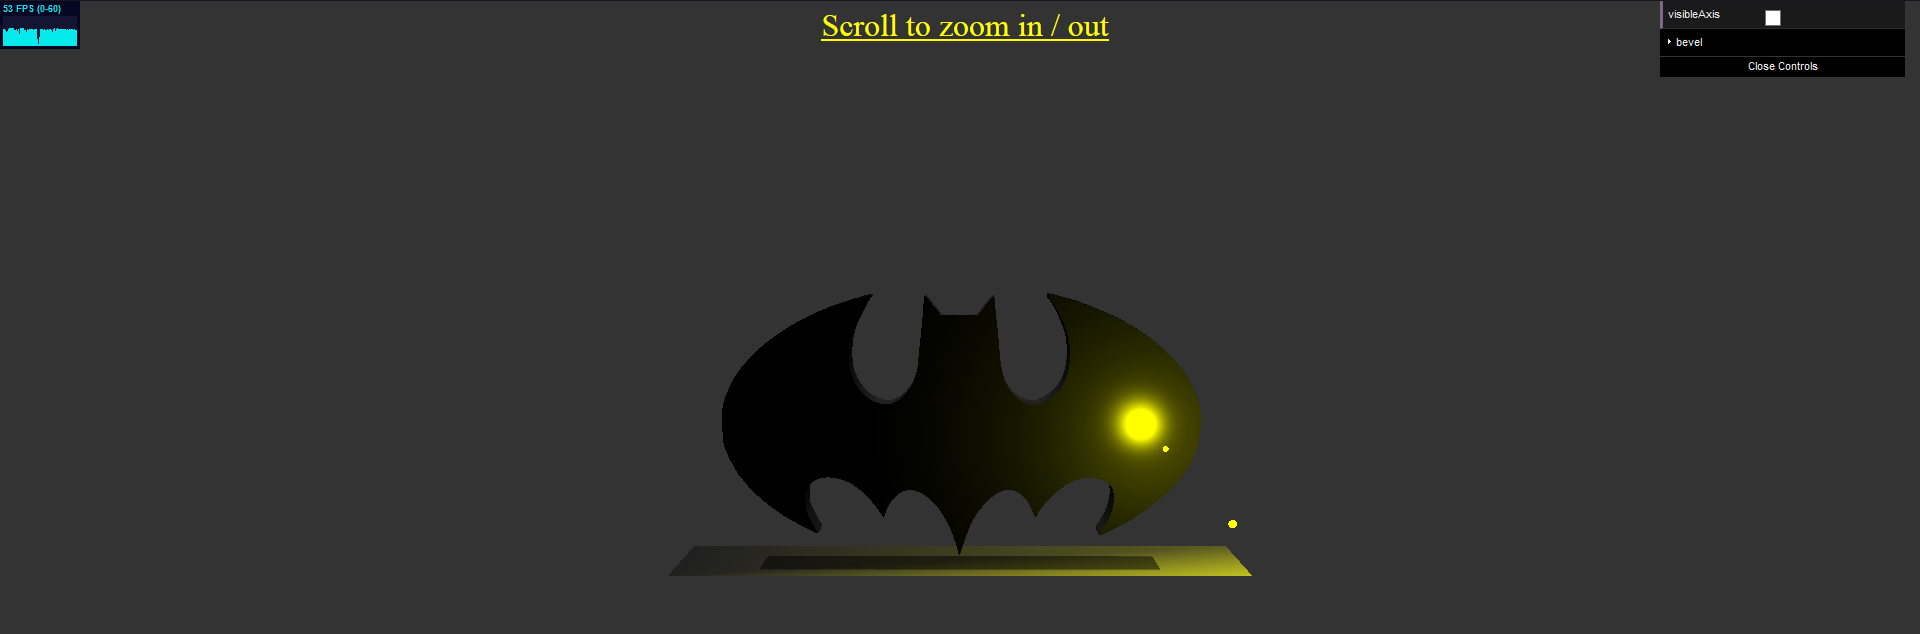
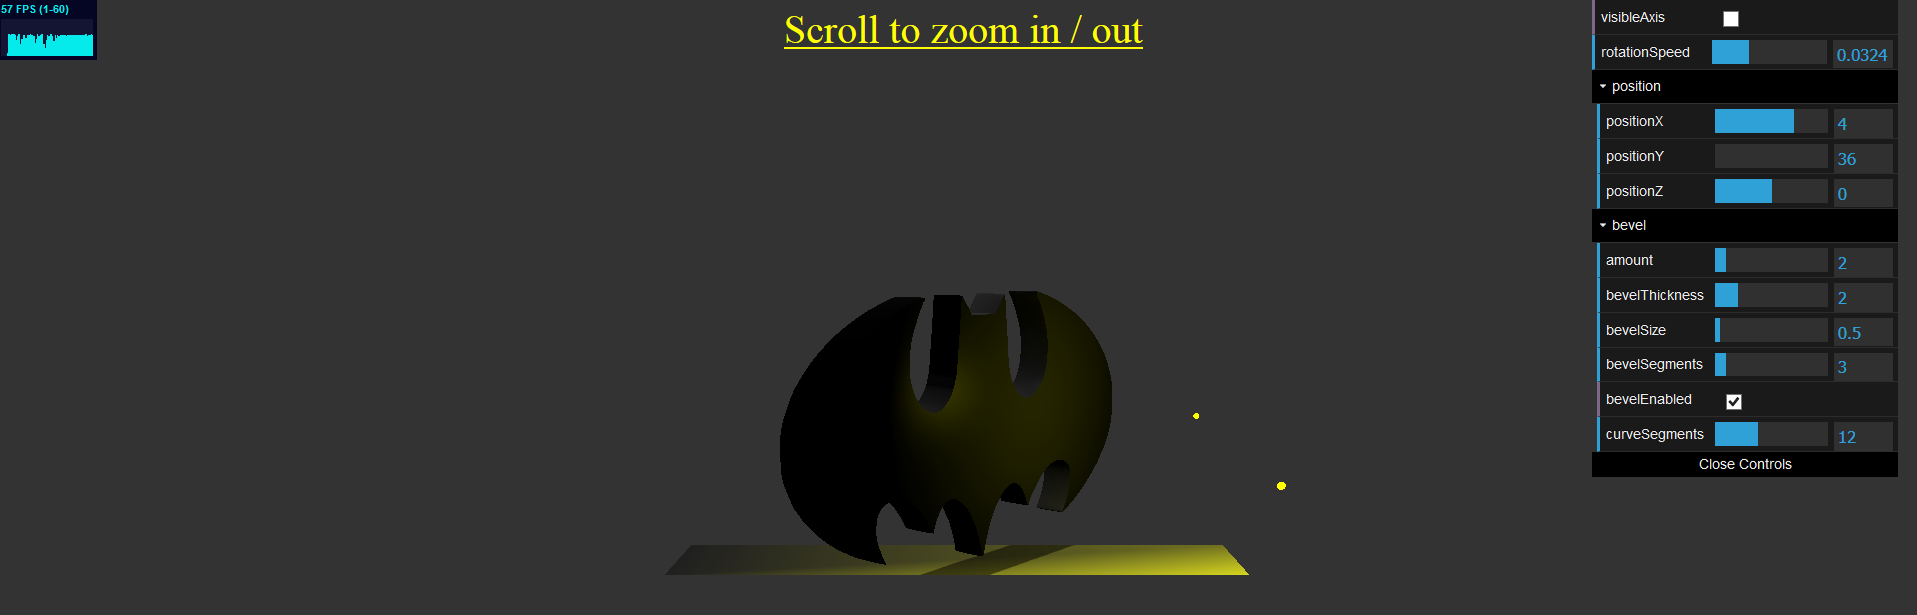
add position and rotation controls

diff --git a/source/index.html b/source/index.html
@@ -108,6 +108,11 @@ function init() {
 		this.bevelEnabled = true;
 		this.curveSegments = 12;
 		
+		this.positionX = 4;
+		this.positionY = 36;
+		this.positionZ = 0;
+		this.rotationSpeed = 0.005;
+		
 		this.asGeom = function () {
 			var options = {
 				amount: controls.amount,
@@ -116,7 +121,6 @@ function init() {
 				bevelSegments: controls.bevelSegments,
 				bevelEnabled: controls.bevelEnabled,
 				curveSegments: controls.curveSegments,
-				
 			};
 			
 			var svgString = document.querySelector("#batman-path").getAttribute("d");
@@ -125,7 +129,7 @@ function init() {
 			svgGeom.applyMatrix(new THREE.Matrix4().makeTranslation(-390, -74, 0)); // allow the rotation on its own axis
 			var meshMaterial = new THREE.MeshPhongMaterial({color: 0x333333, shininess: 100, metal: true});
 			batSignal = new THREE.Mesh(svgGeom, meshMaterial);
-			batSignal.position.set(4, 36, 0); // center it
+			batSignal.position.set(controls.positionX, controls.positionY, controls.positionZ); // center it
 			batSignal.scale.x = 0.1;
 			batSignal.scale.y = 0.1;
 			batSignal.rotation.z = Math.PI;
@@ -136,6 +140,23 @@ function init() {
 	
 	var gui = new dat.GUI();
 	gui.add(controls, 'visibleAxis');
+	gui.add(controls, 'rotationSpeed', 0, 0.1);
+	guiPosition = gui.addFolder('position');
+	var contX = guiPosition.add(controls, 'positionX', -10, 10);
+	var contY = guiPosition.add(controls, 'positionY', 36, 56);
+	var contZ = guiPosition.add(controls, 'positionZ', -10, 10);
+	contX.listen();
+	contX.onChange(function (value) {
+		batSignal.position.x = controls.positionX;
+	});
+	contY.listen();
+	contY.onChange(function (value) {
+		batSignal.position.y = controls.positionY;
+	});
+	contZ.listen();
+	contZ.onChange(function (value) {
+		batSignal.position.z = controls.positionZ;
+	});
 	guiBevel = gui.addFolder('bevel');
 	guiBevel.add(controls, 'amount', 0, 20).onChange(controls.asGeom);
 	guiBevel.add(controls, 'bevelThickness', 0, 10).onChange(controls.asGeom);
@@ -180,7 +201,7 @@ function init() {
 		
 		if(batSignal)
 		{
-			batSignal.rotation.y += 0.005;
+			batSignal.rotation.y += controls.rotationSpeed;
 		}
 		
 		requestAnimationFrame(render);
